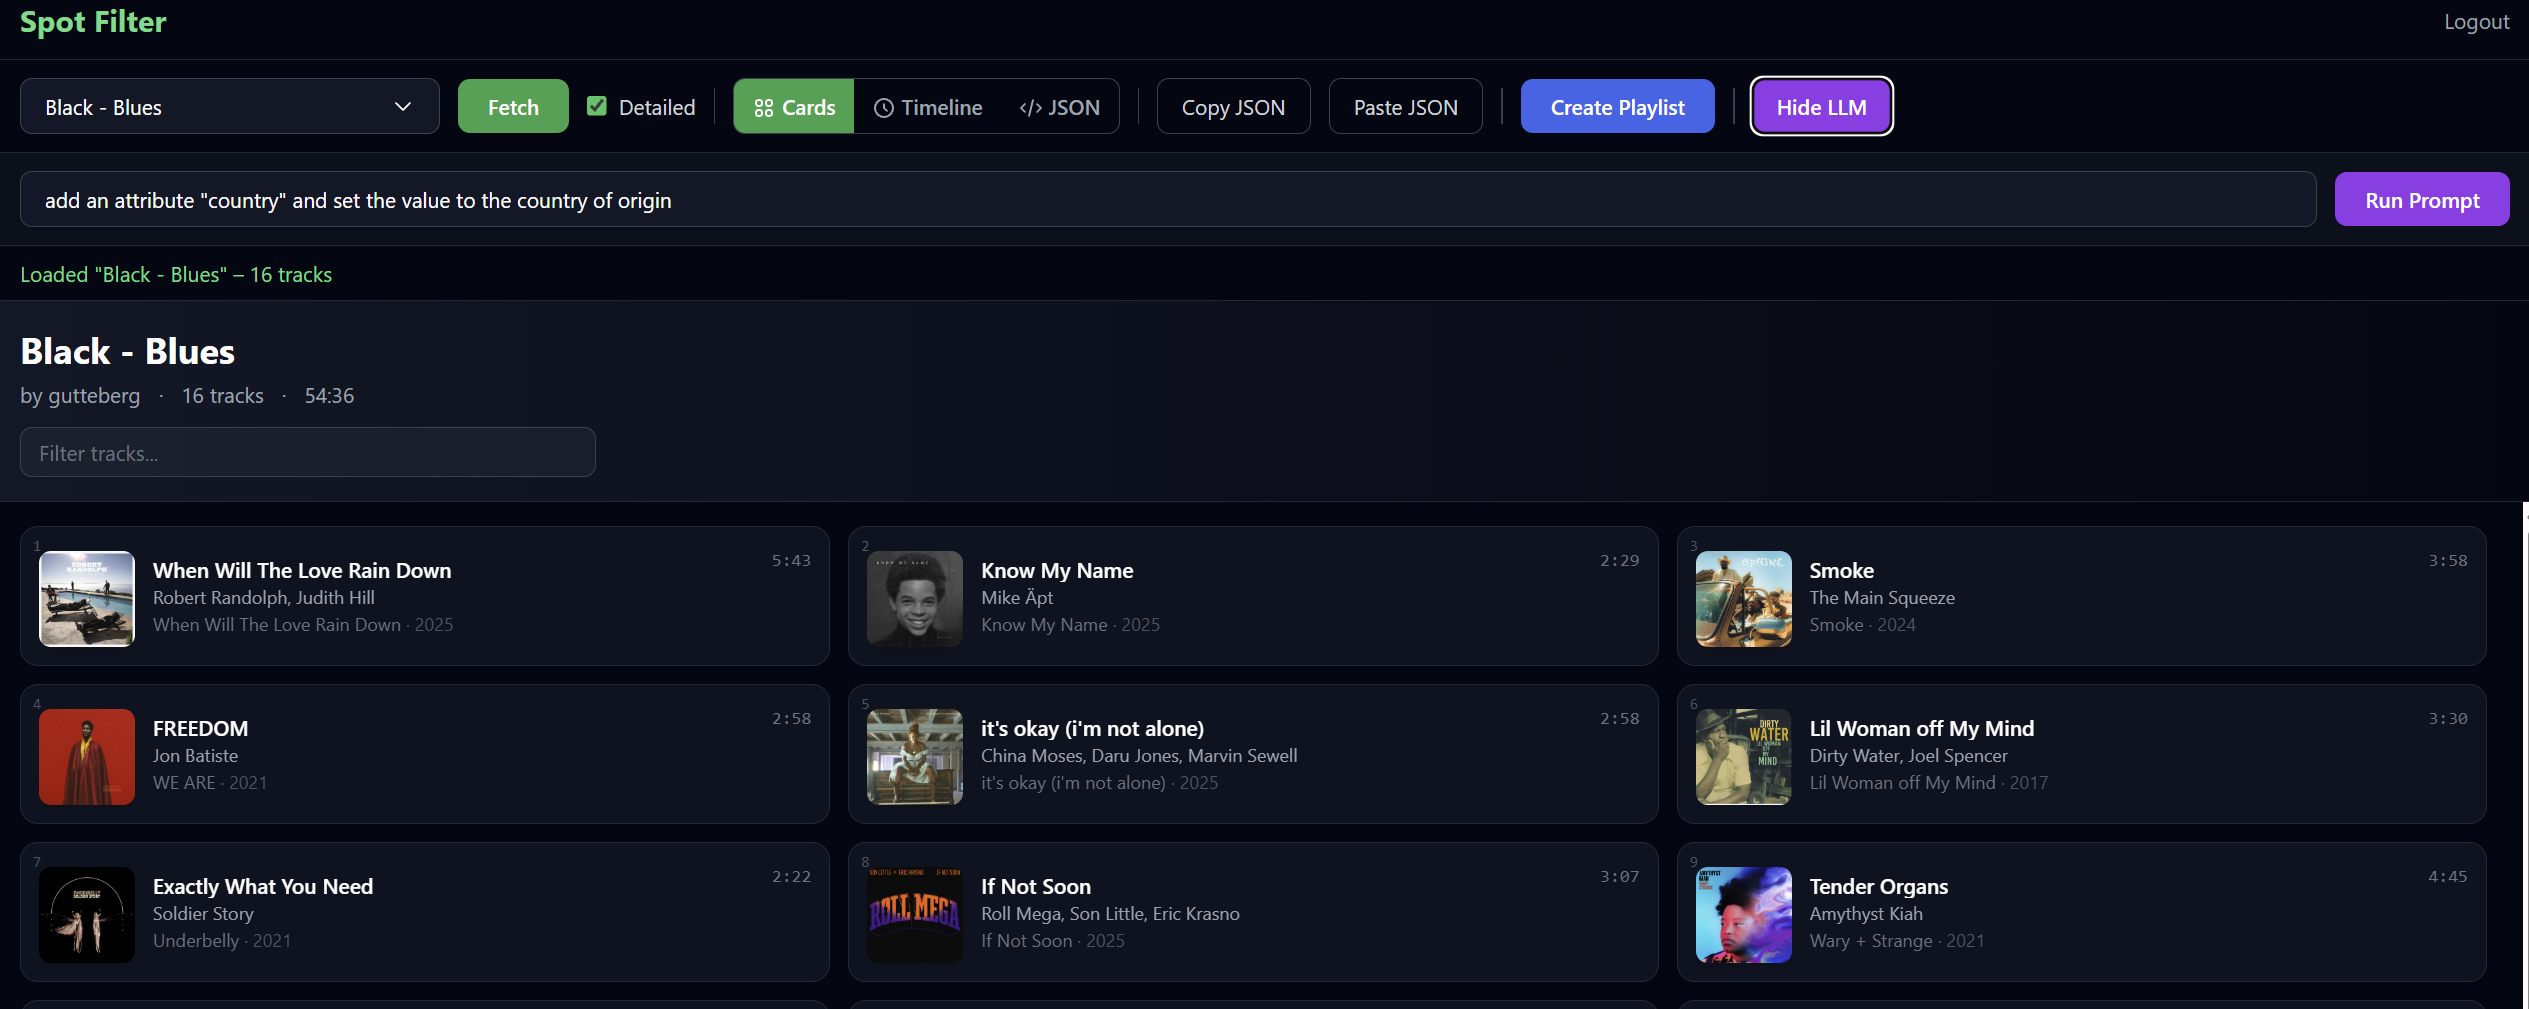
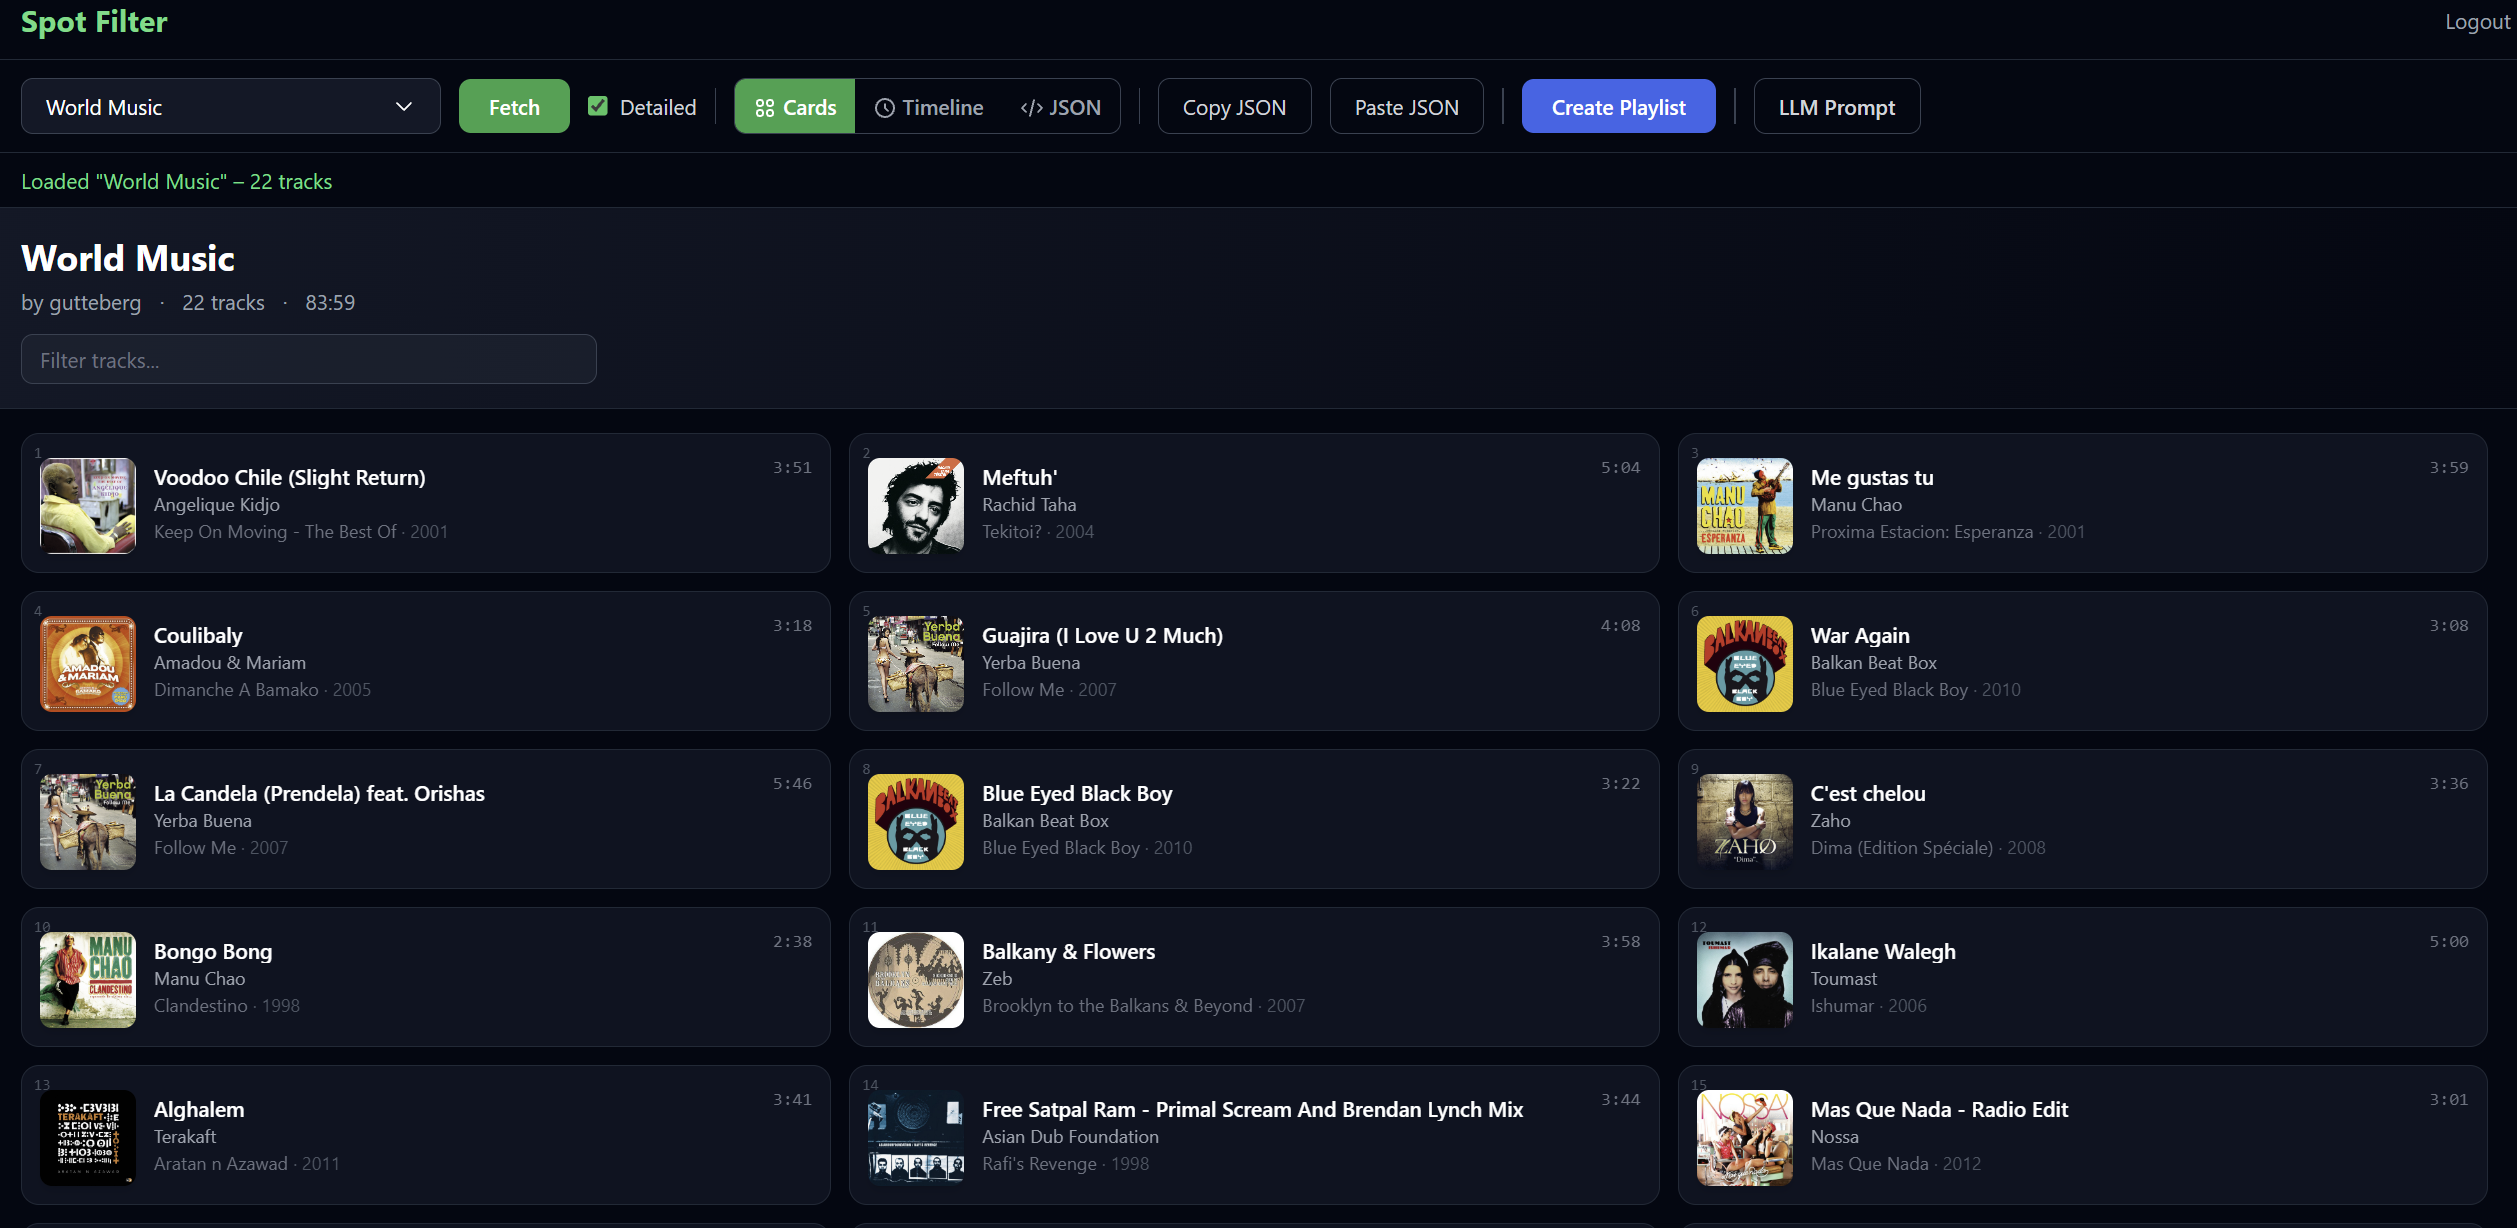
More screenshots

diff --git a/README.md b/README.md
@@ -3,6 +3,8 @@
 A Next.js app for loading Spotify playlists as editable JSON, transforming them with natural-language prompts (via [Ollama](https://ollama.com)), and creating new playlists on your account.
 
 <img src="screenshots/spot-filter.png" width="100%" alt="Screenshot">
+<img src="screenshots/spot-filter-timeline.png" width="40%" alt="Timeline view">
+<img src="screenshots/spot-filter-json.png" width="60%" alt="JSON view">
 
 ## Features
 